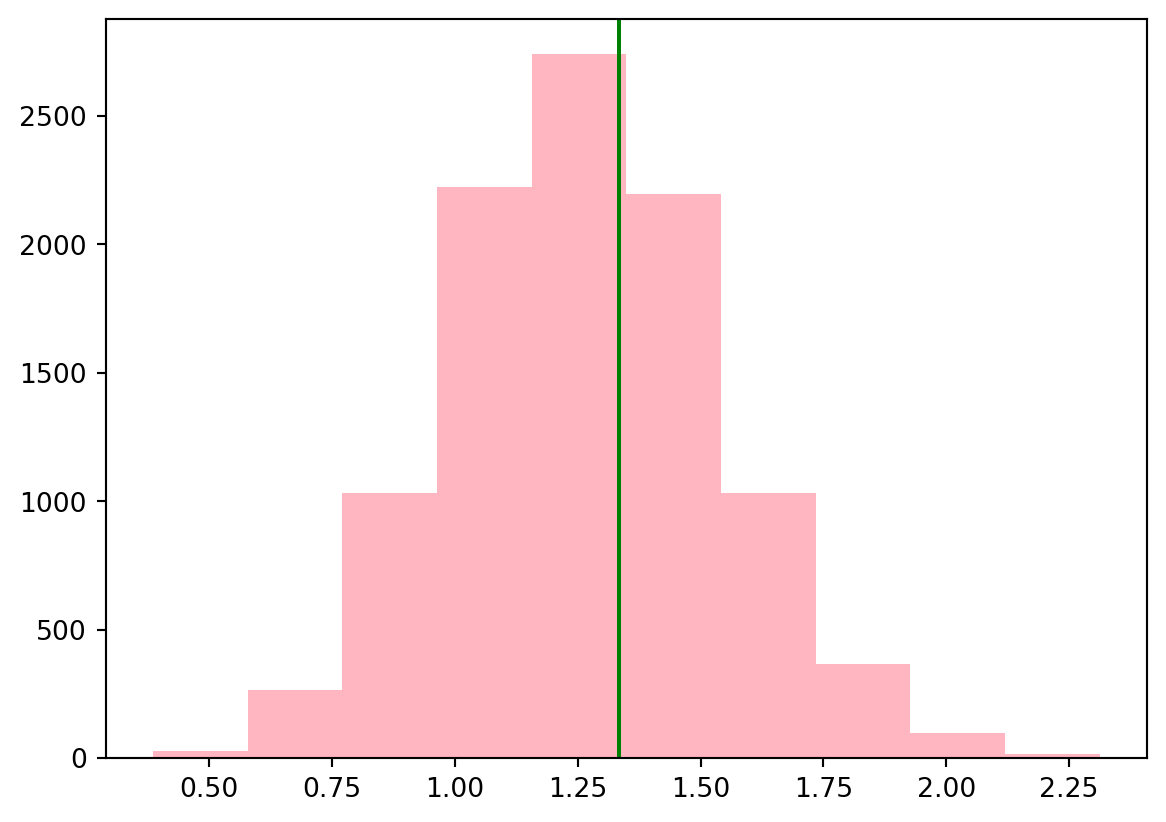
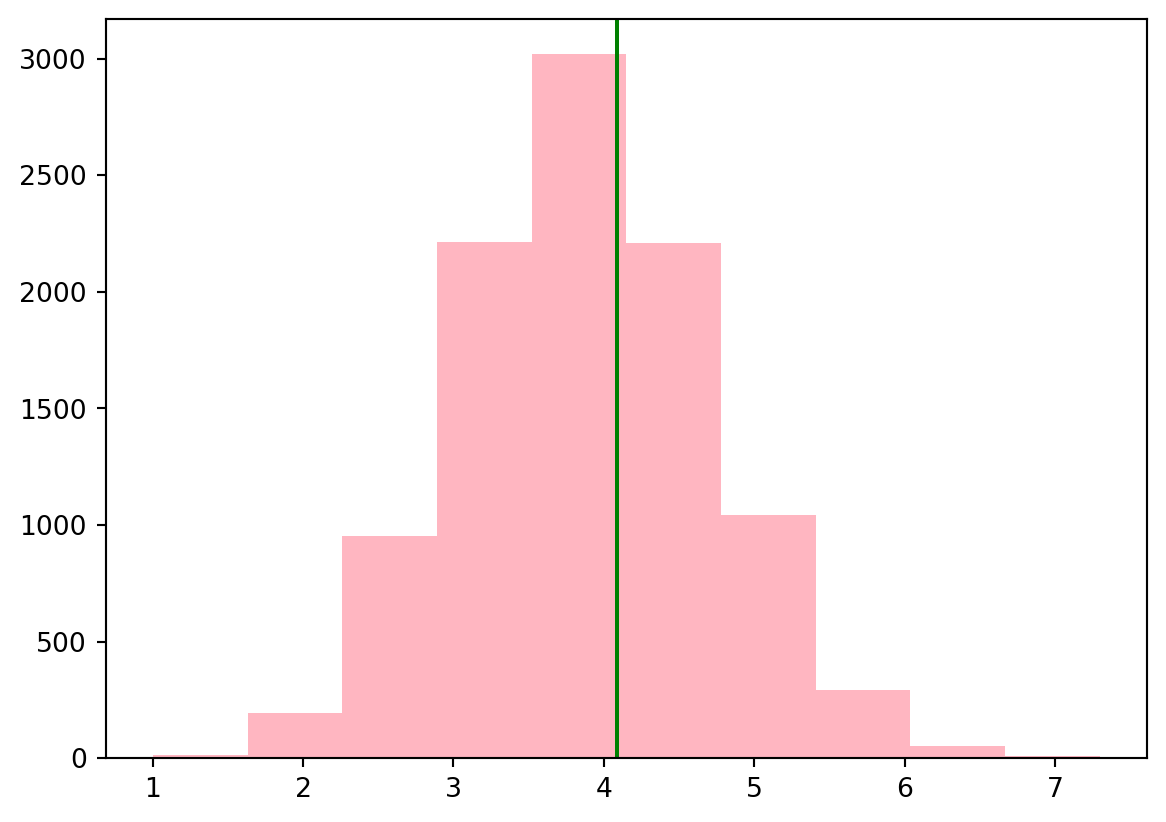
UPDATE - stat - Hw6

diff --git a/docs/posts/hw6/hw6.html b/docs/posts/hw6/hw6.html
@@ -211,10 +211,10 @@ pre > code.sourceCode > span > a:first-child::before { text-decoration: underlin
 <li>결과를 살펴보고, 왜 <strong>n-1</strong>로 나눈 것을 분산을 추정하는 지표로 사용하는 것이 타당한 지 서술하기.</li>
 </ul>
 <p><strong>1. <code>s_2</code> 분포 그래프 그리기</strong></p>
-<div id="3995bef3" class="cell" data-execution_count="1">
+<div id="cf20f9b7" class="cell" data-execution_count="1">
 <div class="sourceCode cell-code" id="cb1"><pre class="sourceCode python code-with-copy"><code class="sourceCode python"><span id="cb1-1"><a href="#cb1-1" aria-hidden="true" tabindex="-1"></a><span class="im">from</span> scipy.stats <span class="im">import</span> uniform</span>
 <span id="cb1-2"><a href="#cb1-2" aria-hidden="true" tabindex="-1"></a><span class="im">import</span> matplotlib.pyplot <span class="im">as</span> plt</span>
-<span id="cb1-3"><a href="#cb1-3" aria-hidden="true" tabindex="-1"></a>x<span class="op">=</span>uniform.rvs(loc<span class="op">=</span><span class="dv">2</span>, scale<span class="op">=</span><span class="dv">4</span>, size<span class="op">=</span><span class="dv">20</span><span class="op">*</span><span class="dv">10000</span>)</span>
+<span id="cb1-3"><a href="#cb1-3" aria-hidden="true" tabindex="-1"></a>x<span class="op">=</span>uniform.rvs(loc<span class="op">=</span><span class="dv">3</span>, scale<span class="op">=</span><span class="dv">7</span>, size<span class="op">=</span><span class="dv">20</span><span class="op">*</span><span class="dv">10000</span>)</span>
 <span id="cb1-4"><a href="#cb1-4" aria-hidden="true" tabindex="-1"></a>x<span class="op">=</span>x.reshape(<span class="op">-</span><span class="dv">1</span>, <span class="dv">20</span>)</span>
 <span id="cb1-5"><a href="#cb1-5" aria-hidden="true" tabindex="-1"></a>x.shape</span>
 <span id="cb1-6"><a href="#cb1-6" aria-hidden="true" tabindex="-1"></a>s_2 <span class="op">=</span> x.var(axis<span class="op">=</span><span class="dv">1</span>, ddof<span class="op">=</span><span class="dv">1</span>)</span>
@@ -225,7 +225,7 @@ pre > code.sourceCode > span > a:first-child::before { text-decoration: underlin
 <div class="cell-output cell-output-display">
 <div>
 <figure class="figure">
-<p><img src="hw6_files/figure-html/cell-2-output-1.png" width="590" height="411" class="figure-img"></p>
+<p><img src="hw6_files/figure-html/cell-2-output-1.png" width="587" height="411" class="figure-img"></p>
 </figure>
 </div>
 </div>
@@ -234,7 +234,7 @@ pre > code.sourceCode > span > a:first-child::before { text-decoration: underlin
 </div>
 </div>
 <p><strong>2. <code>k_2</code> 분포 그래프 그리기</strong></p>
-<div id="db4ef202" class="cell" data-execution_count="2">
+<div id="01ba2aae" class="cell" data-execution_count="2">
 <div class="sourceCode cell-code" id="cb3"><pre class="sourceCode python code-with-copy"><code class="sourceCode python"><span id="cb3-1"><a href="#cb3-1" aria-hidden="true" tabindex="-1"></a>k_2 <span class="op">=</span> x.var(axis<span class="op">=</span><span class="dv">1</span>, ddof<span class="op">=</span><span class="dv">0</span>)</span>
 <span id="cb3-2"><a href="#cb3-2" aria-hidden="true" tabindex="-1"></a>plt.hist(k_2, color <span class="op">=</span> <span class="st">"lightpink"</span>)</span>
 <span id="cb3-3"><a href="#cb3-3" aria-hidden="true" tabindex="-1"></a>plt.axvline(x.var(), color<span class="op">=</span><span class="st">"green"</span>)</span>

diff --git a/docs/blog.html b/docs/blog.html
@@ -332,7 +332,7 @@ Ahyeong Jeong
 </a>
 </div>
 </div>
-<div class="quarto-post image-right" data-index="4" data-categories="Statistics" data-listing-date-sort="1721833200000" data-listing-file-modified-sort="1722251770546" data-listing-date-modified-sort="NaN" data-listing-reading-time-sort="1" data-listing-word-count-sort="142">
+<div class="quarto-post image-right" data-index="4" data-categories="Statistics" data-listing-date-sort="1721833200000" data-listing-file-modified-sort="1722300007661" data-listing-date-modified-sort="NaN" data-listing-reading-time-sort="1" data-listing-word-count-sort="142">
 <div class="thumbnail">
 <p><a href="./posts/hw6/hw6.html" class="no-external"></a></p><a href="./posts/hw6/hw6.html" class="no-external">
 <p class="card-img-top"><img src="posts\hw6\hw6_files\figure-html\cell-2-output-1.png"  class="thumbnail-image card-img"/></p>
@@ -431,7 +431,7 @@ Ahyeong Jeong
 </a>
 </div>
 </div>
-<div class="quarto-post image-right" data-index="7" data-categories="EasyPython" data-listing-date-sort="1721142000000" data-listing-file-modified-sort="1721912230246" data-listing-date-modified-sort="NaN" data-listing-reading-time-sort="1" data-listing-word-count-sort="172">
+<div class="quarto-post image-right" data-index="7" data-categories="EasyPython" data-listing-date-sort="1721142000000" data-listing-file-modified-sort="1722298161942" data-listing-date-modified-sort="NaN" data-listing-reading-time-sort="1" data-listing-word-count-sort="172">
 <div class="thumbnail">
 <p><a href="./posts/easypython_ch12/easypython_ch12.html" class="no-external"></a></p><a href="./posts/easypython_ch12/easypython_ch12.html" class="no-external">
 <div class="listing-item-img-placeholder card-img-top" >&nbsp;</div>
@@ -439,7 +439,7 @@ Ahyeong Jeong
 </div>
 <div class="body">
 <h3 class="no-anchor listing-title">
-<a href="./posts/easypython_ch12/easypython_ch12.html" class="no-external">EasyPython Practice Ch7. Plotly를 이용한 인터렉티브 그래프</a>
+<a href="./posts/easypython_ch12/easypython_ch12.html" class="no-external">EasyPython Practice Ch. Plotly를 이용한 인터렉티브 그래프</a>
 </h3>
 <div class="listing-subtitle">
 <a href="./posts/easypython_ch12/easypython_ch12.html" class="no-external"></a>

diff --git a/docs/posts/easypython_ch12/easypython_ch12.html b/docs/posts/easypython_ch12/easypython_ch12.html
@@ -9,7 +9,7 @@
 <meta name="author" content="Ahyeong Jeong">
 <meta name="dcterms.date" content="2024-07-17">
 
-<title>Ahyeong website - EasyPython Practice Ch7. Plotly를 이용한 인터렉티브 그래프</title>
+<title>Ahyeong website - EasyPython Practice Ch. Plotly를 이용한 인터렉티브 그래프</title>
 <style>
 code{white-space: pre-wrap;}
 span.smallcaps{font-variant: small-caps;}
